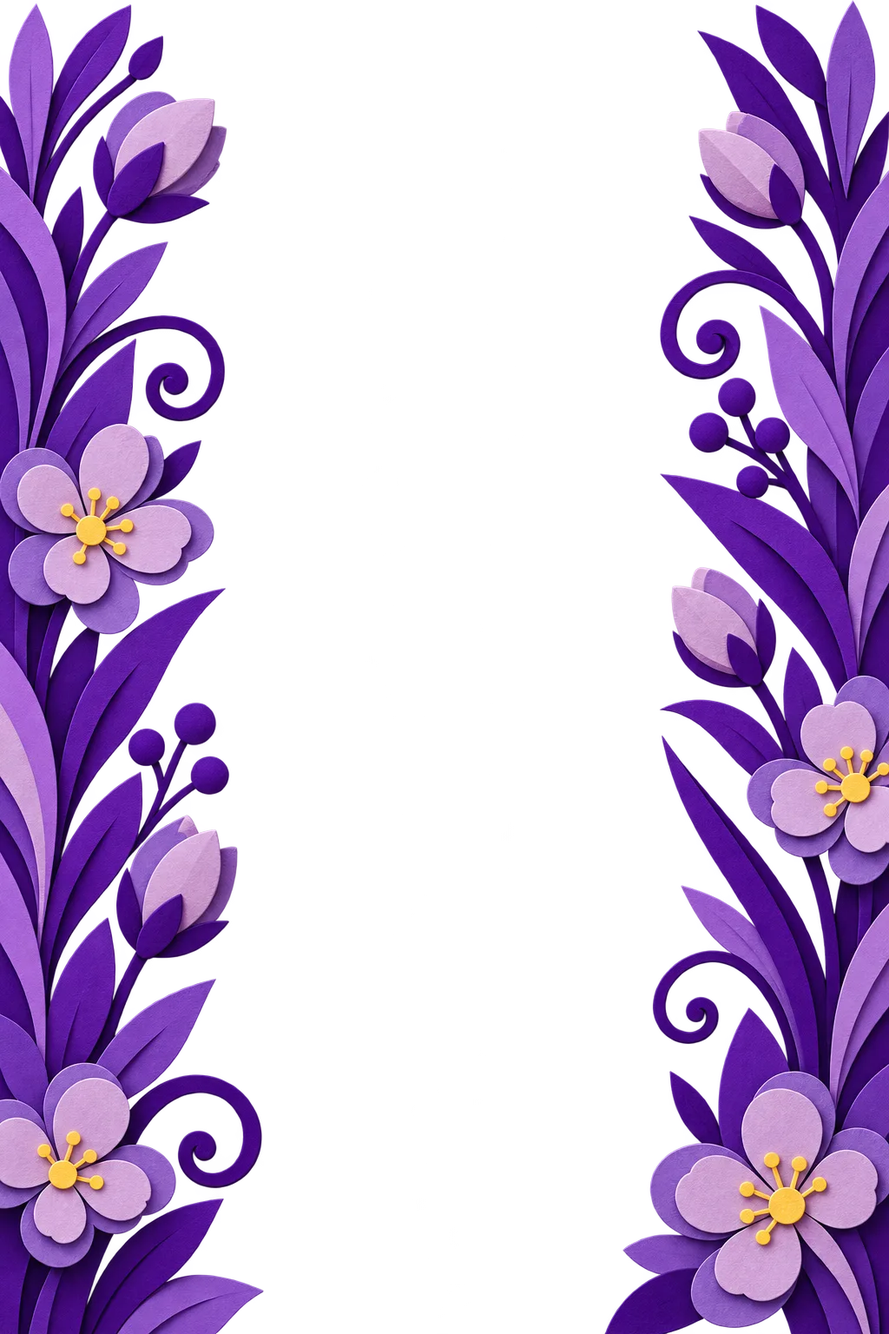
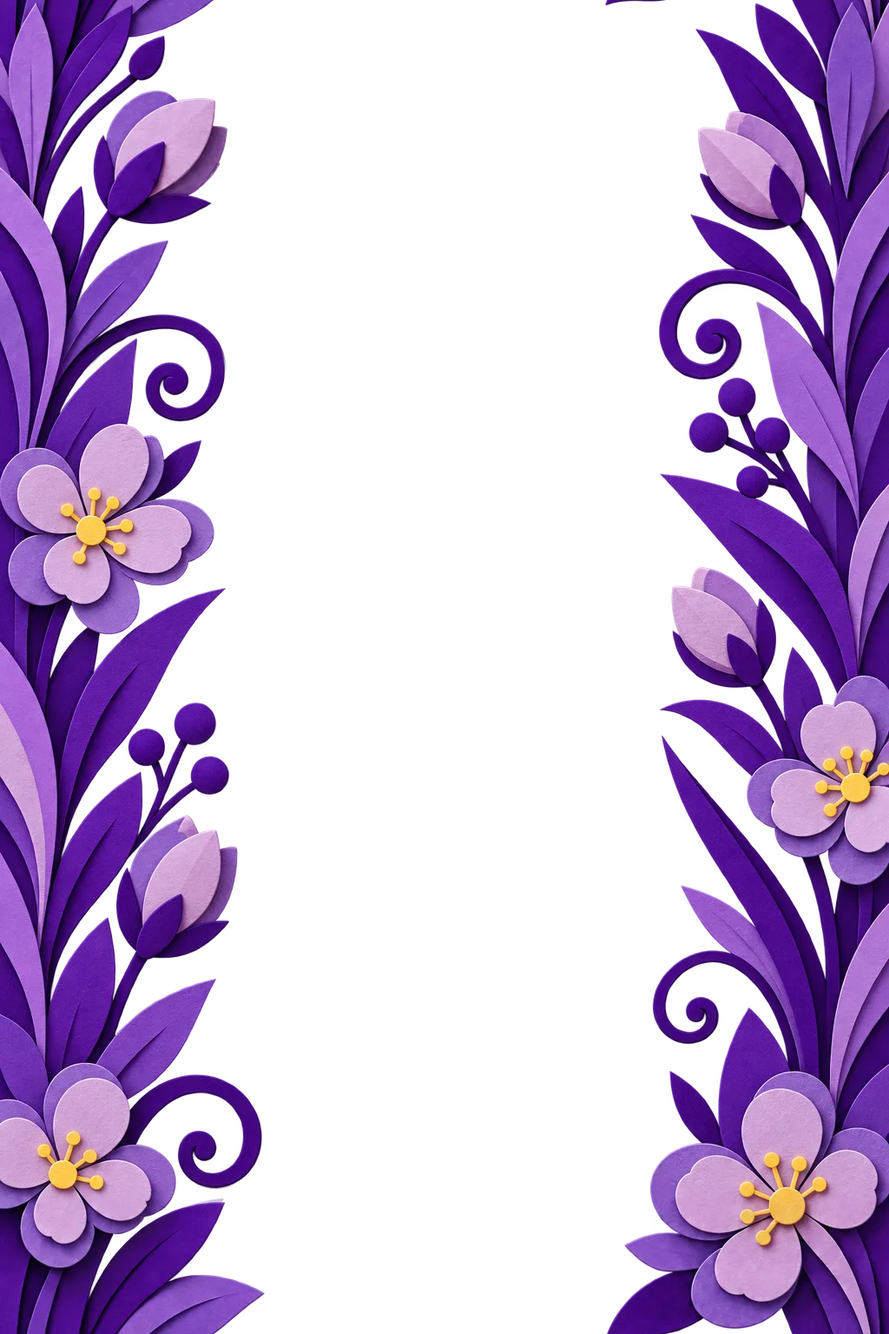
Phone notes: seamless foliage, no white bar, drawings that settle
Your three notes from the phone:
- The near foliage repeated with a hard line once a screen: its art
  didn't tile. Codex repaired the seam (rolled into the middle, then only
  the repaired rows taken back, colour-matched): `tools/art.py tile`,
  which fails if a seam remains. The first tile keeps the art's own start.
  The vine's stem also stopped short of the twig; it now ends inside the
  twig's branch.
- A white bar under the page on Android: when the address bar hides, the
  screen grows past the small viewport the stage was sized to, and the
  page's paper background showed. The stage now reaches the large viewport
  (lvh) while the story stays laid out in the small one (svh); the evening
  garden likewise, with the meadow's ground colour below it.
- Drawings resting half-dissolved on a slow scroll: the scroll now picks
  the drawing and it dissolves in over 0.3 s on its own clock, so it
  always settles on a whole drawing. Hidden drawings start transparent,
  so fading one out never flashes it.

Found on the way: the close's drifting butterflies could widen the page
past a phone's width (random, so only some loads); the flock is clipped.

The layout audit now judges a fresh page (after a warm-up that fills the
cache) and fails on a drawing resting half-dissolved or more than two
drawings at once; proven against main and against the flash above.

Checks: layout ok on all 7 setups; scroll-craft finds no dead scroll at
[…]

diff --git a/site/js/story.js b/site/js/story.js
@@ -21,22 +21,39 @@ const CHRYSALIS = { left: 0.1246, top: 0.1484, width: 0.7509, ratio: 1392 / 983 
 // butterfly in the frame where its wings are open, in widths of the frames' box, so the flyer takes over without a jump
 const FRAMES = { left: 0.0366, top: 0.3032, width: 0.9634, ratio: 1.2122 };
 const BUTTERFLY = { left: 0.0195, top: 0.565, width: 0.911, ratio: 779 / 1024 };
-// When each frame comes in, in screens after the camera stops at the twig: the caterpillar curls up (1–3), the
-// chrysalis (4) holds a little longer, then it glows (5), opens (6–8), and the butterfly leaves it empty (9)
+// Where the scroll moves on to each frame, in screens after the camera stops at the twig: the caterpillar curls up
+// (1–3), the chrysalis (4) holds a little longer, then it glows (5), opens (6–8), and the butterfly leaves it empty (9)
 const POSES = [0.35, 0.65, 0.95, 1.25, 1.65, 1.95, 2.15, 2.35, 2.6];
+// The scroll only picks the drawing; it dissolves in over SNAP seconds on its own, so the picture always comes to rest
+// on a whole drawing, however slowly the thumb moves
+const SNAP = 0.3;
 const ZOOM = 1.6;    // the caterpillar grows to the size it's drawn in the frames while it lowers itself on its thread
 const LEAVES = [{ x: 0.348, y: 0.228 }, { x: 0.691, y: 0.643 }]; // the vine's two big leaves, as fractions of a tile
 const TILES = 3;                                                   // vine images, one screen each
-const D = 0.12;                                                    // a frame's dissolve, in screens
 
 export function story() {
   const stage = document.querySelector('.stage');
   const $ = s => stage.querySelector(s);
   const world = Object.fromEntries(Object.keys(DEPTH).map(k => [k, k === 'words' ? $('.words') : $(`.world .${k}`)]));
   const cat = $('.caterpillar'), silk = $('.silk'), night = $('.night'), film = $('.film'), change = $('.change');
-  const poses = [...change.children], twig = $('.twig'), flyer = $('.flyer'), flap = $('.flyer img'), hush = $('.hush'), her = $('.her'), two = $('.two'), wings = $('.wings');
+  const frames = [...change.children], twig = $('.twig'), flyer = $('.flyer'), flap = $('.flyer img'), hush = $('.hush'), her = $('.her'), two = $('.two'), wings = $('.wings');
   const evening = $('.evening'), track = document.querySelector('.track');
   const still = matchMedia('(prefers-reduced-motion: reduce)').matches;
+
+  // the drawings the change goes through, each shown whole: the caterpillar on its thread, the frames (the butterfly
+  // takes off from the last), and the empty shell once the butterfly has landed on her
+  const drawings = [[cat, silk], ...frames.map(f => [f]), [frames.at(-1)]];
+  drawings[frames.length].push(flap);
+
+  // the small viewport, with the browser's bars showing: the story is laid out in it (the stage reaches further down, so
+  // nothing shows below it when the bars hide)
+  const small = () => {
+    const probe = document.body.appendChild(document.createElement('div'));
+    probe.className = 'svh';
+    const h = probe.offsetHeight;
+    probe.remove();
+    return h;
+  };
 
   // the pictures further down the story, once the first screen has loaded: the memories first, then the frames
   addEventListener('load', () => stage.querySelectorAll('img[data-src]').forEach(img => (img.src = img.dataset.src)), { once: true });
@@ -47,7 +64,7 @@ export function story() {
   function build() {
     const at = tl ? tl.time() : 0;
     tl?.kill();
-    H = stage.clientHeight;
+    H = small();
     const W = stage.clientWidth;
     const CW = (H * 2) / 3, colL = (W - CW) / 2;          // the 2:3 column the garden was drawn for
     const boxW = (H * 9) / 16, boxL = (W - boxW) / 2;      // the frames' 9:16 box, centred
@@ -63,12 +80,12 @@ export function story() {
     // the vine hangs from among the flowers; its end meets the twig exactly where the first frame draws it
     const vTop = 0.75 * H, vEnd = vTop + TILES * H;
     const chrysW = CHRYSALIS.width * boxW, chrysH = chrysW * CHRYSALIS.ratio;
-    const camHold = vEnd - CHRYSALIS.top * H - 0.06 * chrysH;
+    const camHold = vEnd - CHRYSALIS.top * H - 0.144 * chrysH; // the stem ends inside the twig's branch (200 of 1392 px down)
     px(world.vine, { left: colL, top: vTop, width: CW });
     // no straight edge ever slides past (scroll-craft devices.md §6): the meadow and the flowers fade out at their
     // feet (site.css), into solid ground in the meadow's own bottom colour that starts behind the meadow's middle
     px(world.ground, { left: 0, top: 0.6048 * H + 0.5 * ((CW * 607) / 1024), width: W, height: 7 * H });
-    px(world.foliage, { left: colL, top: 0.95 * H, width: CW, height: 8 * H });
+    px(world.foliage, { left: colL, top: 1.95 * H, width: CW, height: 7 * H }); // its first tile hangs above it (site.css)
 
     // the caterpillar: a third of the column long, starting on the vine low on the first screen
     const catW = 0.34 * CW, catH = (catW * 393) / 1024;
@@ -149,17 +166,14 @@ export function story() {
       .to($('.words'), { autoAlpha: 0, duration: 0.4 }, t1 - 0.6) // the vine's words go with the light
       .fromTo(hush, { autoAlpha: 0, y: 20 }, { autoAlpha: 1, y: 0, duration: 0.3 }, t1 - 0.2)
       .to(hush, { autoAlpha: 0, duration: 0.25 }, t1 + 1.4)
-      .to([cat, silk], { autoAlpha: 0, duration: D }, t1 + POSES[0] + D / 2)
       .fromTo(film, { scale: 1 }, { scale: 1.06, duration: 1.9 }, t1 + 0.8)
       .fromTo(p, { sway: 0 }, { sway: 1, duration: 0.5 }, t1 + POSES[0])
       .to(p, { sway: 0, duration: 0.4 }, tE - 0.5) // still when the butterfly lets go
-      .fromTo(flyer, { autoAlpha: 0 }, { autoAlpha: 1, duration: D }, t1 + POSES[8])
       // the camera follows it down to her; it flutters, then settles on her back as her wings
       .to(p, { cam: camHold + 1.1 * H, duration: 1.1, ease: 'sine.inOut' }, tE)
       .to(film, { scale: 1, duration: 0.6 }, tE)
       .to(p, { flap: 7, duration: 1.3 }, tE)
       .fromTo(flyer, { x: 0, y: 0, scale: 1 }, { x: land.x - fly0.x, y: land.y - fly0.y, scale: land.w / fly0.w, duration: 0.8, ease: 'power1.inOut' }, tE + 0.5)
-      .to(flyer, { autoAlpha: 0, duration: 0.25 }, tE + 1.3)
       .fromTo(two, { autoAlpha: 0, scale: 0.4, rotation: -20 }, { autoAlpha: 1, scale: 1, rotation: 0, duration: 0.15, ease: 'back.out(2)' }, t2)
       .fromTo(wings, { autoAlpha: 0, y: 20 }, { autoAlpha: 1, y: 0, duration: 0.2 }, t2 + 0.05)
       // the story is over. As the details rise, she and her words leave before their first line arrives (0.12 screens
@@ -170,23 +184,29 @@ export function story() {
     // the close's butterflies come out only once it has arrived
     const end = (document.documentElement.scrollHeight - innerHeight) / H;
     tl.fromTo('.close .flock', { autoAlpha: 0 }, { autoAlpha: 1, duration: 0.25 }, end - 0.3);
-    // the change, frame by frame: each frame dissolves in over the one before, which goes once it's half in
-    poses.forEach((el, i) => {
-      tl.fromTo(el, { autoAlpha: 0 }, { autoAlpha: 1, duration: D }, t1 + POSES[i]);
-      if (i) tl.to(poses[i - 1], { autoAlpha: 0, duration: D }, t1 + POSES[i] + D / 2);
-    });
 
     // her place in the world: she rises into view as the camera comes down to her
     herRise = camHold + 1.1 * H;
-    geometry = { vTop, vEnd, c0, follow, stem, catW, H, W, boxL, tE, t2, camHold };
+    // where the scroll moves on to each drawing: the frames, then the butterfly settled on her back as her wings
+    const turns = [...POSES.map(t => t1 + t), tE + 1.4];
+    geometry = { vTop, vEnd, c0, follow, stem, catW, H, W, boxL, tE, t2, camHold, turns };
     tl.time(at);
     render();
   }
 
-  let herRise = 0, geometry, burstDone = still;
+  let herRise = 0, geometry, burstDone = still, shown = 0, snap;
+
+  function show(n) {
+    const d = still ? 0 : SNAP;
+    snap?.kill();
+    snap = gsap.timeline()
+      .to(drawings[n], { autoAlpha: 1, duration: d }, 0)
+      .to(drawings.filter((_, i) => i !== n).flat().filter(el => !drawings[n].includes(el)), { autoAlpha: 0, duration: d }, d / 3);
+    shown = n;
+  }
 
   function render() {
-    const { vEnd, c0, follow, stem, catW, H, W, t2, camHold } = geometry;
+    const { vEnd, c0, follow, stem, catW, H, W, t2, camHold, turns } = geometry;
     const cam = p.cam;
     for (const [k, el] of Object.entries(world)) gsap.set(el, { y: -cam * DEPTH[k] });
     gsap.set(twig, { y: camHold - cam });
@@ -207,6 +227,8 @@ export function story() {
       Object.assign(silk.style, { left: `${W / 2}px`, top: `${vEnd - cam}px`, height: `${Math.max(0, cy - catW / 2 - vEnd)}px` });
     }
 
+    const n = turns.filter(t => tl.time() >= t).length;
+    if (n !== shown) show(n);
     if (!still) gsap.set(flap, { scaleX: 1 - 0.35 * Math.abs(Math.sin(p.flap * Math.PI)) });
     gsap.set(her, { y: herRise - cam });
 
@@ -218,7 +240,7 @@ export function story() {
     // what the stage shows, for scroll-craft's harness: rendered values only, never the scroll position itself (its
     // verify.md)
     const o = el => Math.round(gsap.getProperty(el, 'opacity') * 20);
-    stage.dataset.scVerifyState = [Math.round(cam / 4), ...poses.map(o), o(night), o(cat), o(flyer), o(two), o(wings), o(evening),
+    stage.dataset.scVerifyState = [Math.round(cam / 4), ...drawings.map(([el]) => o(el)), o(flap), o(night), o(two), o(wings), o(evening),
       Math.round(gsap.getProperty(film, 'scale') * 200), Math.round(gsap.getProperty(flyer, 'y') / 4)].join('|');
   }
 

diff --git a/site/css/site.css b/site/css/site.css
@@ -25,9 +25,12 @@ h2 { font-size: clamp(30px, 8.5vw, 52px); }
 p { margin: 0; }
 .column { width: min(100%, 34rem); margin: 0 auto; padding: 0 var(--pad-r) 0 var(--pad-l); }
 
-/* One story on one pinned stage (js/story.js places and moves everything on it, in px). */
+/* One story on one pinned stage (js/story.js places and moves everything on it, in px). It's laid out in the small
+   viewport (svh, the phone browser's bars showing) but reaches down to the large one (lvh, bars hidden), so nothing
+   shows below it when they hide; the negative margin keeps the page as long as the small viewport makes it. */
 .story { position: relative; }
-.stage { position: sticky; top: 0; height: 100svh; overflow: clip; background: var(--dawn); }
+.stage { position: sticky; top: 0; height: 100lvh; margin-bottom: calc(100svh - 100lvh); overflow: clip; background: var(--dawn); }
+.svh { position: absolute; height: 100svh; } /* js/story.js measures the small viewport with it */
 .stage > *, .world > * { position: absolute; }
 .world, .words { inset: 0 auto auto 0; z-index: 0; }
 .words { z-index: 5; } /* in front of the caterpillar: it crawls behind the paper tags */
@@ -38,15 +41,16 @@ p { margin: 0; }
 .world .ground { background: linear-gradient(#2C0968, var(--dusk)); }
 .world .meadow { -webkit-mask: linear-gradient(#000 55%, #0000); mask: linear-gradient(#000 55%, #0000); }
 .world .blossoms { -webkit-mask: linear-gradient(#000 70%, #0000); mask: linear-gradient(#000 70%, #0000); }
-.world .foliage { background: url(../img/foliage.webp) top / 100% auto repeat-y; }
+.world .foliage { background: url(../img/foliage.webp) top / 100% auto repeat-y; } /* repeats without a seam (art.py tile) */
+.world .foliage::before { content: ""; position: absolute; left: 0; bottom: 100%; width: 100%; aspect-ratio: 2 / 3; background: url(../img/foliage-top.webp) top / 100% auto no-repeat; } /* the first tile: the foliage starts here */
 .night { inset: 0; z-index: 2; background: var(--dusk); opacity: 0; pointer-events: none; }
 .silk { z-index: 3; width: 2px; margin-left: -1px; background: rgb(200 162 200 / .8); }
 .caterpillar { z-index: 4; left: 0; top: 0; max-width: none; height: auto; }
 .film { z-index: 6; transform-origin: 50% 30%; }
 .film > * { position: absolute; max-width: none; height: auto; }
-.change img { position: absolute; inset: 0 auto auto 0; width: 100%; height: auto; visibility: hidden; }
-.film .flyer { visibility: hidden; }
-.film .flyer img { display: block; width: 100%; height: auto; }
+/* drawings wait hidden and fully transparent, so fading one out never shows it (js/story.js shows one at a time) */
+.change img { position: absolute; inset: 0 auto auto 0; width: 100%; height: auto; visibility: hidden; opacity: 0; }
+.film .flyer img { display: block; width: 100%; height: auto; visibility: hidden; opacity: 0; }
 
 /* words on the vine */
 .words .scrim { background: radial-gradient(60% 50% at 50% 50%, rgb(251 247 253 / .82), rgb(251 247 253 / 0)); pointer-events: none; }
@@ -60,7 +64,7 @@ p { margin: 0; }
 .memory .pic, .memory figcaption { position: absolute; }
 /* her baby pictures, a paper medallion on each leaf */
 .memory .pic { max-width: none; }
-.hush { z-index: 7; left: 20px; right: 20px; bottom: 12svh; text-align: center; }
+.hush { z-index: 7; left: 20px; right: 20px; bottom: calc(12svh + 100lvh - 100svh); text-align: center; }
 
 /* her, the 2, and the words */
 .her { z-index: 7; }
@@ -70,13 +74,13 @@ p { margin: 0; }
 .burst { z-index: 6; /* bursts out from behind her */ left: 0; width: 100%; pointer-events: none; -webkit-mask: linear-gradient(transparent, #000 18%); mask: linear-gradient(transparent, #000 18%); }
 .wings { z-index: 9; left: var(--pad-l); right: var(--pad-r); top: calc(var(--pad-t) + 4svh); text-align: center; color: #fff; text-shadow: 0 3px 0 var(--indigo); }
 
-/* after the story: the garden at evening, behind the details and the close */
-.evening { inset: 0; z-index: 10; }
-.evening .frame, .evening > img { position: absolute; }
-.evening > img { left: 50%; width: calc(100svh * 2 / 3); max-width: none; height: auto; translate: -50% 0; }
-.evening > .sky { top: 0; height: 100%; object-fit: cover; }
-.evening > .hills { top: 49.93%; }
-.evening > .meadow { top: 60.48%; }
+/* after the story: the garden at evening, behind the details and the close, laid out in the small viewport like the
+   story, with the meadow's own ground colour below it */
+.evening { inset: 0; z-index: 10; background: #2C0968; }
+.evening > img { position: absolute; left: 50%; width: calc(100svh * 2 / 3); max-width: none; height: auto; translate: -50% 0; }
+.evening > .sky { top: 0; height: 100svh; object-fit: cover; }
+.evening > .hills { top: calc(.4993 * 100svh); }
+.evening > .meadow { top: calc(.6048 * 100svh); }
 .dusk { position: absolute; inset: 0; background: linear-gradient(rgb(30 8 64 / .92), rgb(75 0 130 / .7) 55%, rgb(75 0 130 / .45)); }
 .track { pointer-events: none; }
 
@@ -106,7 +110,7 @@ dd { margin: 0; font-size: clamp(22px, 6.2vw, 28px); line-height: 1.25; }
 .sign { position: absolute; left: 0; right: 0; bottom: var(--pad-b); text-align: center; font-size: 15px; font-weight: 700; }
 
 /* small fluttering butterflies: two half-images flapping in CSS 3D, drifting on CSS keyframes (compositor only) */
-.flock { position: absolute; inset: 0; pointer-events: none; }
+.flock { position: absolute; inset: 0; overflow: clip; pointer-events: none; } /* one drifting off the edge flies out of view, never widens the page */
 .bf { position: absolute; left: var(--x); top: var(--y); width: var(--s); aspect-ratio: 1024 / 779; perspective: 300px; animation: drift var(--d) ease-in-out var(--dl) infinite alternate; }
 .bf i { position: absolute; top: 0; width: 50%; height: 100%; background: var(--img) no-repeat; background-size: 200% 100%; }
 .bf .l { left: 0; transform-origin: 100% 50%; animation: flap-l var(--f) ease-in-out infinite alternate; }

diff --git a/tools/art.py b/tools/art.py
@@ -9,6 +9,12 @@
                                              drawing's, cut the twig off (the page draws one twig under them all), crop
                                              them to one shared box and write site/img/<name>/<n>.webp; prints the box
                                              in widths of the chrysalis sprite, for js/story.js
+  tools/art.py tile      <raw.png> <name> [repaired.png]   a tile that repeats down the page without a seam. Without
+                                             repaired.png it writes art/raw/<name>-rolled.png, the tile with its seam
+                                             moved to the middle, for Codex to repair (art/prompts/foliage-seam.txt).
+                                             With it, it puts the repair back over the original's rows, writes
+                                             site/img/<name>.webp (repeats seamlessly) and <name>-top.webp (the first
+                                             tile, which starts as the art starts), and fails if a seam remains
 
 Setup: python3 -m venv .venv && .venv/bin/pip install pillow numpy   (and cwebp from Homebrew)
 """
@@ -107,10 +113,48 @@ def frames(name, srcs):
           f"ratio: {(box[3] - box[1]) / (box[2] - box[0]):.4f} }}")
 
 
+def seam(im):
+    """How much the tile's last row differs from its first, against the roughest 1% of its neighbouring rows."""
+    a = np.asarray(im).astype(float)
+    a[..., :3] *= a[..., 3:] / 255  # premultiplied, so colour where it's transparent doesn't count
+    return np.abs(a[0] - a[-1]).mean(), np.percentile(np.abs(np.diff(a, axis=0)).mean(axis=(1, 2)), 99)
+
+
+def tile(src, name, repaired=None):
+    raw = np.asarray(Image.open(src).convert("RGBA"))
+    half = raw.shape[0] // 2
+    if not repaired:
+        Image.fromarray(np.roll(raw, half, axis=0)).save(f"art/raw/{name}-rolled.png")
+        return print(f"art/raw/{name}-rolled.png: seam at row {half}; repair it with Codex, then run again with the result")
+    rolled = np.roll(raw, half, axis=0).astype(float)
+    fix = np.asarray(Image.open(repaired).convert("RGBA").resize(raw.shape[1::-1], Image.LANCZOS)).astype(float)
+    # Codex redraws the whole picture but only reshapes the rows around the seam: take those (and 30 more each side,
+    # blended in), matched to the original's colour
+    both = (rolled[..., 3] > 200) & (fix[..., 3] > 200)
+    fix[..., :3] = np.clip(fix[..., :3] * rolled[both][:, :3].mean(0) / fix[both][:, :3].mean(0), 0, 255)
+    changed = np.abs(fix[..., 3] - rolled[..., 3]).mean(axis=1)
+    rows = np.where(changed > 3 * np.median(changed))[0]
+    rows = rows[np.abs(rows - half) < half // 2]  # the seam's band, not stray rows elsewhere
+    y = np.arange(raw.shape[0])[:, None, None]
+    w = np.clip(np.minimum(y - (rows.min() - 60), rows.max() + 60 - y) / 30, 0, 1)
+    print(f"repair used for rows {rows.min()}–{rows.max()} of the rolled tile, blended over 30 more each side")
+    out = np.roll(rolled * (1 - w) + fix * w, -half, axis=0).round().astype(np.uint8)
+    # the first tile starts as the original does; its bottom half is the seamless tile's, so it leads into it
+    top = np.concatenate([raw[:half], out[half:]])
+    e, q = seam(Image.fromarray(out))
+    print(f"seam {e:.1f}, roughest 1% of inner rows {q:.1f}")
+    if e > q:
+        sys.exit("a seam remains")
+    export(Image.fromarray(out), name)
+    export(Image.fromarray(top), f"{name}-top")
+
+
 if __name__ == "__main__":
     mode = sys.argv[1]
     if mode == "frames":
         frames(sys.argv[2], sys.argv[3:])
+    elif mode == "tile":
+        tile(*sys.argv[2:])
     else:
         src, name, *size = sys.argv[2:]
         {"layer": layer, "sprite": sprite, "butterfly": butterfly}[mode](Image.open(src).convert("RGBA"), name, *map(int, size))

diff --git a/PROGRESS.md b/PROGRESS.md
@@ -6,7 +6,7 @@ Last updated 2026-10-22.
 ## Where things stand
 
 - `main` is the baseline (2026-10-22): one continuous story on one pinned picture (`BRIEF.md` is the plan). The paper caterpillar goes down a vine past her first year (four baby pictures on its leaves), curls up into a chrysalis, comes out as a butterfly and becomes her wings; then the details and the close over the evening garden. The previous baseline, the "one film", is `767dd74`.
-- Awaiting your phone check of the new art: her baby likeness (the four pictures, and the sheet they come from, `art/raw/baby-sheet-a.png`), and whether the change's frame-by-frame steps feel smooth. Anything to redo goes on a new branch.
+- Your notes on it are fixed on `fix/phone-notes`, awaiting your phone check.
 - **Milestone 1** (style test) is done and approved. **Milestone 2** (rough build) is rebuilt as the one story. Still open from milestone 2: the iPhone check (next step 3).
 - Placeholders still in: the laptop shows the phone composition as a centred column; her winged portrait is version A of two; the evening garden is the dawn layers under a dusk wash.
 - Party: Saturday 28 November 2026, 6–8 PM IST, Party Hall, Ramaniyam Magnum, Perungudi. Plan launch Nov 12–14.
@@ -25,7 +25,8 @@ Last updated 2026-10-22.
 | (branch `feat/vertical-motion`, deleted, was `8b28da9`) | Vertical motion: everything drifting up inside the fixed stage at depth speeds | Rejected: "really bad". Cause: it faked normal scrolling through a timeline that trails the thumb, and moved art several screens (scroll-craft caps parallax near 200 px) |
 | `feat/scroll-craft` | Diagnosis against scroll-craft, engine lab, Codex video test, `BRIEF.md` | Brief approved; skeleton (five acts) rejected: "still feels like scenes stitched together" |
 | `852714d` (branch `feat/one-story`) | One story: the caterpillar's journey on one pinned picture, with stand-in art | "So far satisfied… just as I expected" (2026-10-22) |
-| branch `feat/story-art` | The stand-ins replaced: the change as nine Codex drawings played frame by frame (the caterpillar grows on its thread to their size); a baby drawing sheet and four memory pictures from it; `tools/art.py frames` | "Complete the stand-ins and merge to main" (2026-10-22): merged; your phone check of the art is still to come |
+| branch `feat/story-art` (`50afda0`) | The stand-ins replaced: the change as nine Codex drawings played frame by frame (the caterpillar grows on its thread to their size); a baby drawing sheet and four memory pictures from it; `tools/art.py frames` | Merged. "The baby pictures are on point… the change is perfect smooth no jumps" (2026-10-22) |
+| branch `fix/phone-notes` | Your three notes: the foliage repeated with a hard line once a screen (repaired by Codex into a seamless tile) and the vine ended above the twig; a white bar under the page on Android when the address bar hides (the stage now reaches the large viewport); drawings resting half-dissolved on a slow scroll (now each dissolves in on its own clock). Found on the way: the close's drifting butterflies could make the page a little wider than a phone, so it slid sideways (they're clipped now); the layout audit now judges a fresh page and fails on a drawing resting half-dissolved or more than two drawings showing at once | Awaiting your phone check |
 
 ## Decisions made with you (don't reopen without asking)
 
@@ -92,3 +93,4 @@ Each is its own branch, approved before merge. Details in `BRIEF.md`.
 - Laptop: the phone composition shows as a centred column with dark sides (milestone 3).
 - First screen is 538 KB against a 450 KB budget (milestone 3).
 - iPhone address-bar stutter: not re-tested since the film (next step 3).
+- The address-bar fix can't be reproduced on the Mac (desktop Chrome has no hiding bars); it was checked by rewriting every `svh` to be 56 px short of the screen. Confirm on an Android phone and an iPhone.

diff --git a/BRIEF.md b/BRIEF.md
@@ -78,9 +78,9 @@ Timeline time is screens of scroll, and nothing smooths or delays it, so it move
 | Piece | State |
 |---|---|
 | Dawn garden (5 layers) | Approved, reused |
-| Vine, near foliage, paper caterpillar | Drawn by Codex 2026-10-22 for this story; stem line traced so the caterpillar crawls exactly on it |
+| Vine, near foliage, paper caterpillar | Drawn by Codex 2026-10-22 for this story; stem line traced so the caterpillar crawls exactly on it. The foliage's seam was repaired by Codex (`tools/art.py tile`) so it repeats without a line; the vine's stem ends inside the twig's branch |
 | Twig | Cut from the chrysalis drawing; the frames hang from its knot |
-| The change | Nine Codex drawings (2026-10-22), each drawn from the one before it: J, curling up, wrapped, chrysalis, glowing, crumpled wings, half open, open, the empty shell. `tools/art.py frames` lines each one up on the twig; the page dissolves from one to the next |
+| The change | Nine Codex drawings (2026-10-22), each drawn from the one before it: J, curling up, wrapped, chrysalis, glowing, crumpled wings, half open, open, the empty shell. `tools/art.py frames` lines each one up on the twig. The scroll picks the drawing and it dissolves in over 0.3 s on its own, so the picture always rests on a whole drawing |
 | The four memories | Baby drawing sheet from `b1`, `b2`, `b4`, `b5` and her drawing sheet B (`art/raw/baby-sheet-a.png`), awaiting your approval; four paper medallions drawn from it: gummy smile, serious stare, a long story, finger heart |
 | Her portrait | Version A; the butterfly lands on its wings |
 | Evening garden | The dawn layers under a dusk wash |
@@ -91,13 +91,13 @@ As before: no scroll hint, no emoji icons, no identical cards, balanced headline
 
 ## Mechanism
 
-- **The story:** our own GSAP timeline (`site/js/story.js`), played by the scroll once per frame. One pinned stage (CSS sticky), sized in `svh`, so nothing on it shifts when an iPhone's address bar collapses.
+- **The story:** our own GSAP timeline (`site/js/story.js`), played by the scroll once per frame. One pinned stage (CSS sticky), laid out in the small viewport (`svh`, the browser's bars showing) so nothing on it shifts when they collapse, and reaching down to the large one (`lvh`) so nothing shows below it when they do.
 - **scroll-craft's engine, unedited,** reveals the details and the close as they arrive, and its harness checks the page.
 - **GSAP 3.15.0** (latest). ScrollTrigger isn't loaded.
 
 ## How it gets checked
 
-- `npm run layout`: overlaps (art painting over words, unless the words sit on their own paper and the art passes behind), words off the side or off a pinned screen, tap targets, sideways scroll, broken images, errors; 7 setups, 1001 points each. Proven on planted faults.
+- `npm run layout`: overlaps (art painting over words, unless the words sit on their own paper and the art passes behind), words off the side or off a pinned screen, a drawing left half-dissolved once the scroll rests or more than two showing at once, tap targets, sideways scroll, broken images, errors; 7 setups, 1001 points each. Proven on planted faults.
 - `npm run craft`: scroll-craft's harness at phone, laptop and reduced motion; dead scroll checked through the stage's drawn state, densely sampled. Its contrast pass only grades words the engine cues, so it doesn't cover this page's words; contrast is read by eye on the sheets.
 - `npm run tasks` and `npm run flicker`.
 - The feel check, then your phones.
